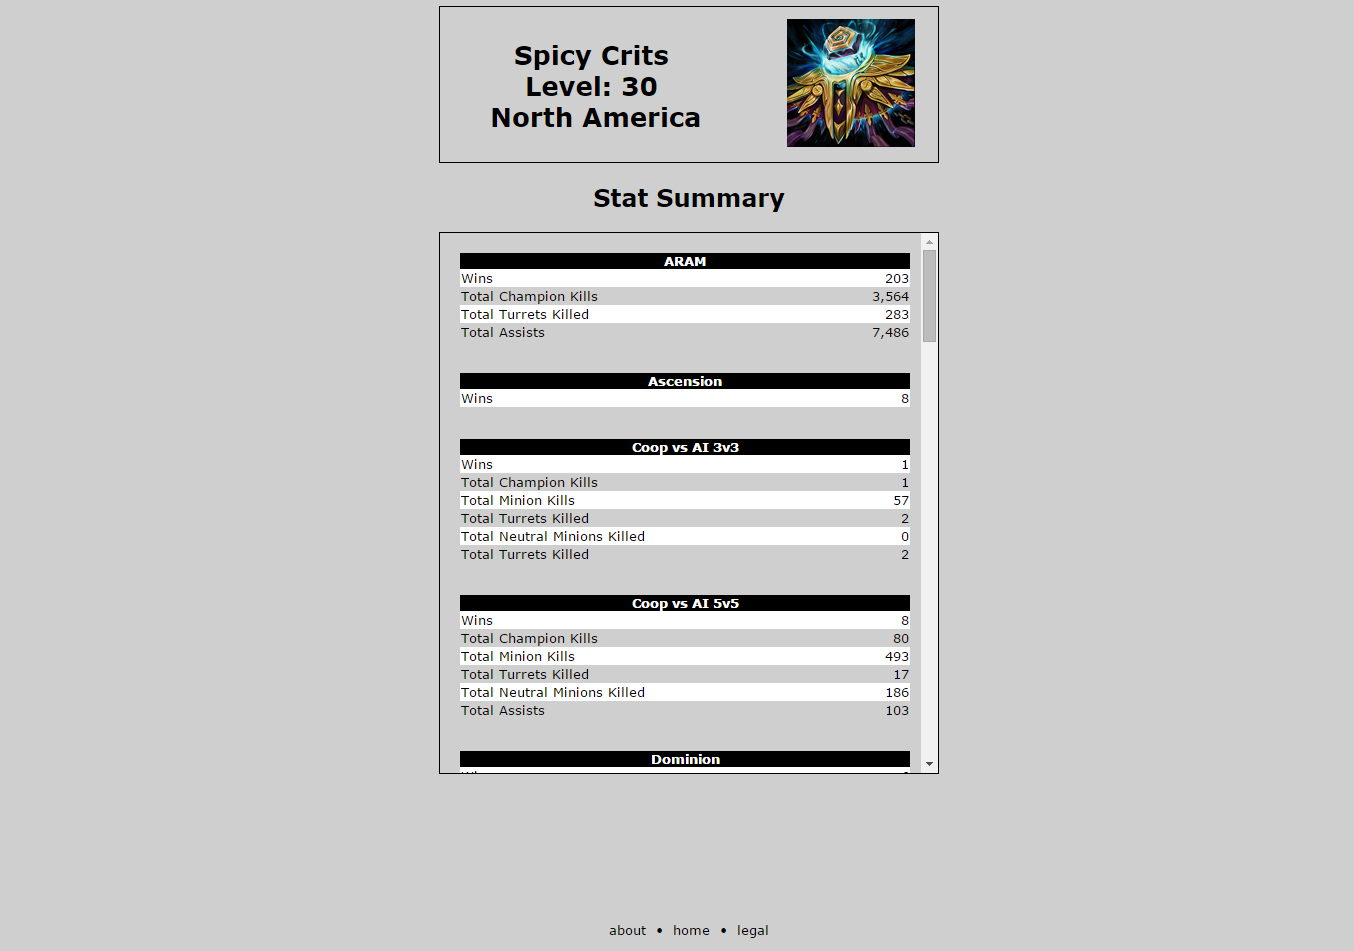
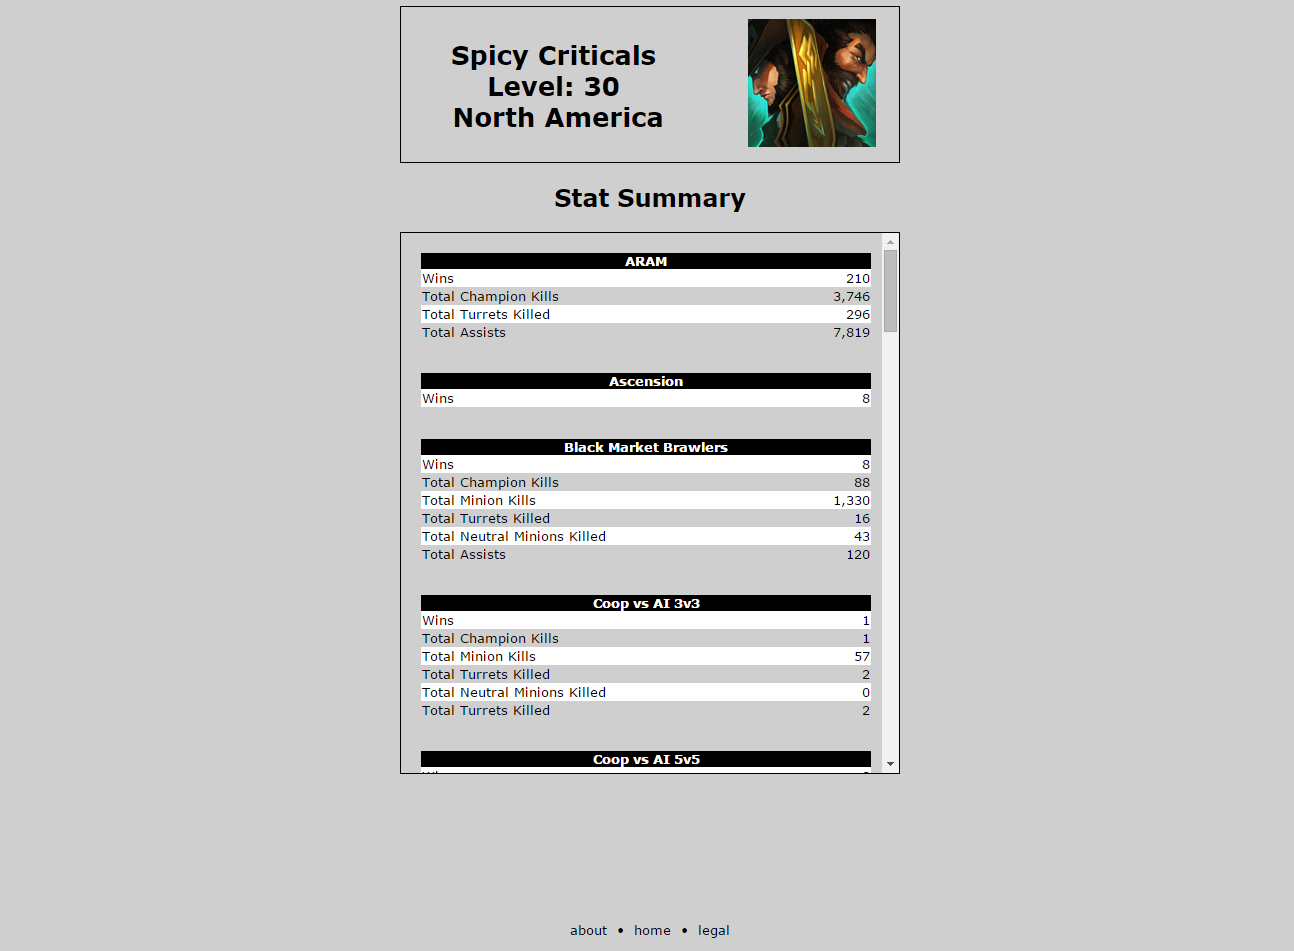
updated LoL player data project.

diff --git a/public_html/v4/index.php b/public_html/v4/index.php
@@ -426,22 +426,22 @@
                 <br /> <hr>
                 <div class="proj">
                     <h2>League of Legends Player Data Parser
-                        <a href="http://chrismeyers.info/projects/LoL_player_data/web" target="_blank" class="no-decoration">
+                            <a href="http://chrismeyers.info/projects/LoL_player_data/web" target="_blank" class="no-decoration">
                             <img src="images/icons/link.png" 
                                 onmouseover="this.src = 'images/icons/link_hover.png'" 
                                 onmouseout="this.src = 'images/icons/link.png'" 
                                 class="proj-link"
                                 alt="Link to LoL player data" 
                                 title='View site'>
-                        </a>
-                        <a href="https://github.com/chrismeyers/LoL_player_data" target="_blank" class="no-decoration">
+                            </a>
+                            <a href="https://github.com/chrismeyers/LoL_player_data" target="_blank" class="no-decoration">
                             <img src="images/social/github.png" 
                                 onmouseover="this.src = 'images/social/github_hover.png'" 
                                 onmouseout="this.src = 'images/social/github.png'" 
                                 class="proj-link"
                                 alt="Link to Code" 
                                 title='View code'>
-                        </a>
+                            </a>
                     </h2>
                     <h3>Personal Project, Summer 2014</h3>
                     <div class="projWrapper">
@@ -483,7 +483,11 @@
                                     
                                 <dt><b>Description:</b></dt>
                                     <dd>An application based on the video game <i>League of Legends</i> that
-                                    utilizes the Riot Games API to query and parse player data for a specified player.</dd>
+                                    utilizes the Riot Games API to query and parse player data for a specified player.
+                                    <p></p>
+                                    If you don't have a <i>League of Legends</i> account and would like to use the 
+                                    website, you can use my account name (Spicy Criticals) to test functionality.
+                                    </dd>
                                     
                                 <dt><b>My Role:</b></dt>
                                     <dd>Solo Project.</dd>
